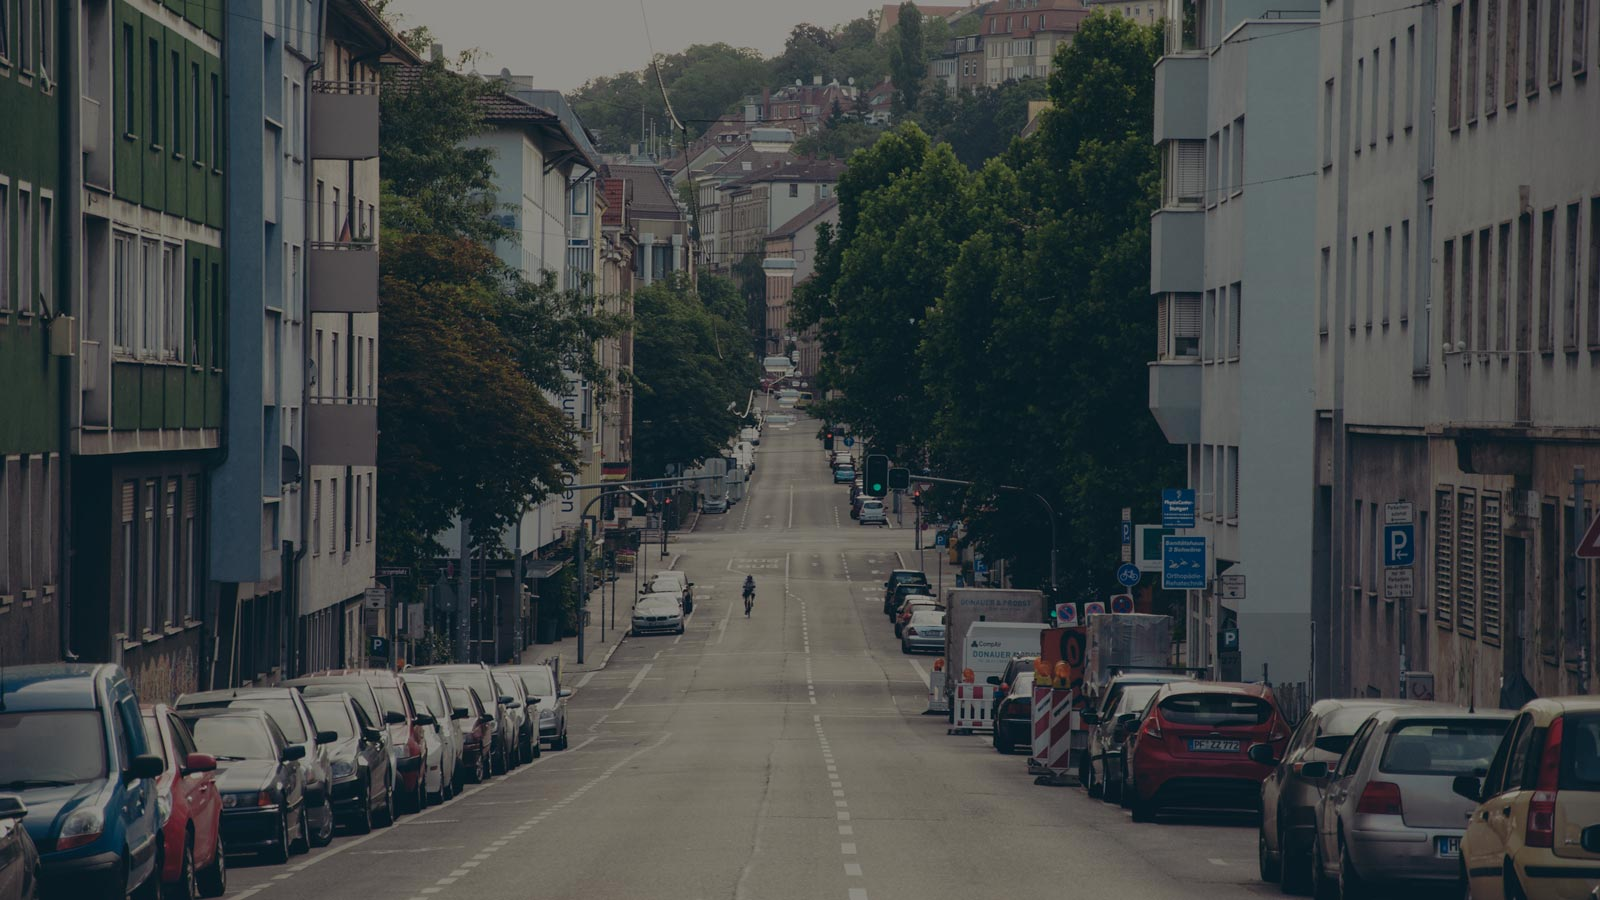
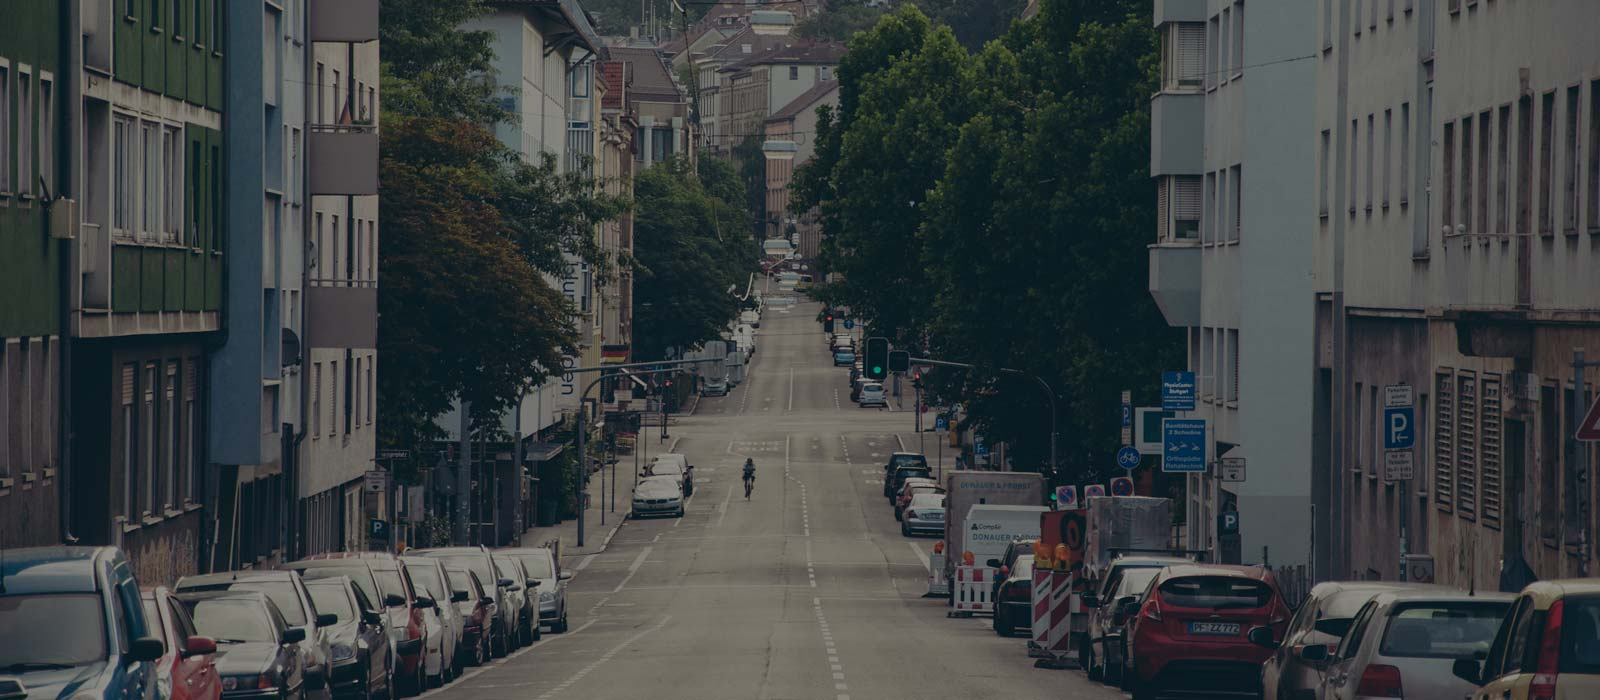
finally my photo in about page

diff --git a/css/main.scss b/css/main.scss
@@ -201,7 +201,7 @@ pre > code {
   margin: 0;
   padding: 0;
   display: flex;
-  font-size: 0.7rem;
+  font-size: 0.63rem;
   justify-content: center;
   margin-top: 1em;
   margin-bottom: 1em;
@@ -210,10 +210,12 @@ pre > code {
 .tags-list-inline {
   display: flex;
   justify-content: flex-start;
+  flex-wrap: wrap;
 }
 
 .tag-list-item {
   padding: 0.15em 0.4em;
+  margin-bottom: 0.15em;
   background-color: $gray;
   margin-right: 5px;
   text-transform: uppercase;

diff --git a/about/index.md b/about/index.md
@@ -2,7 +2,7 @@
 layout: post
 title: About me
 description: สวัสดี My name is Armno. I am a web developer living in beautiful Chiang Mai, Thailand. I started my career as a web developer since 2010. I work on HTML/JS/CSS and some PHP for fun.
-cover-image: "/img/cover-me.jpg"
+cover-image: "/img/cover-about-me.jpg"
 expand-header: true
 ---
 
